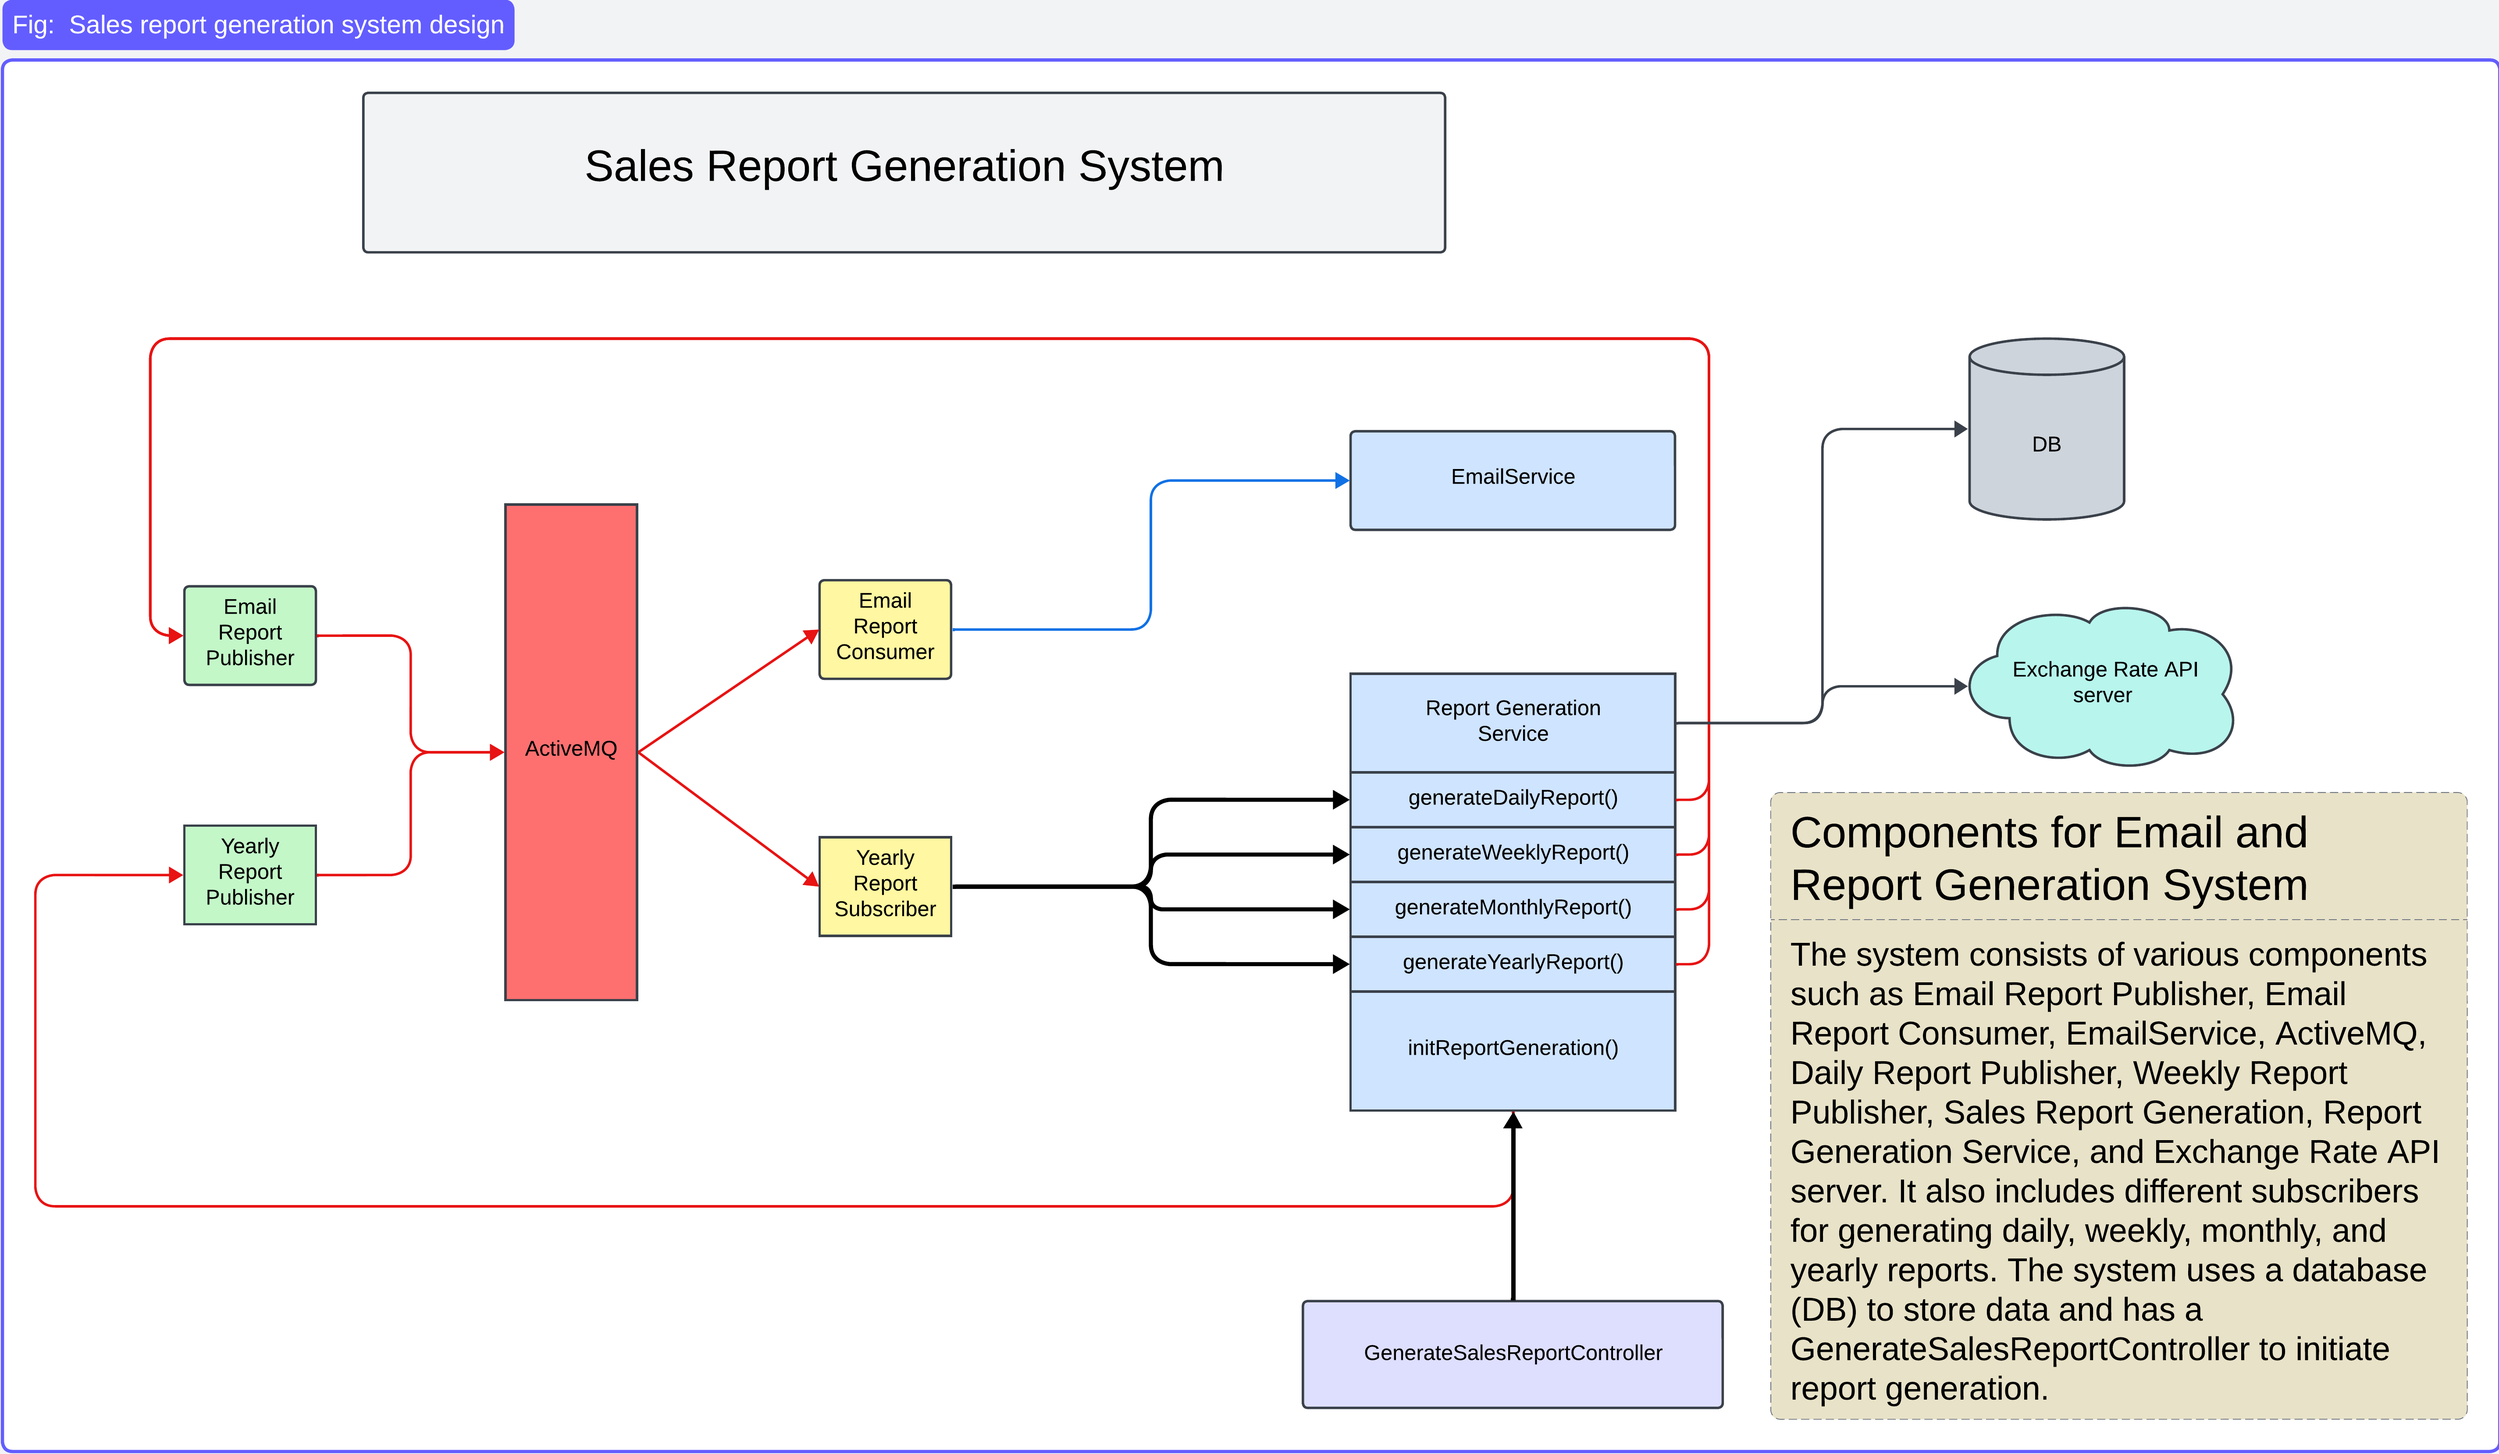
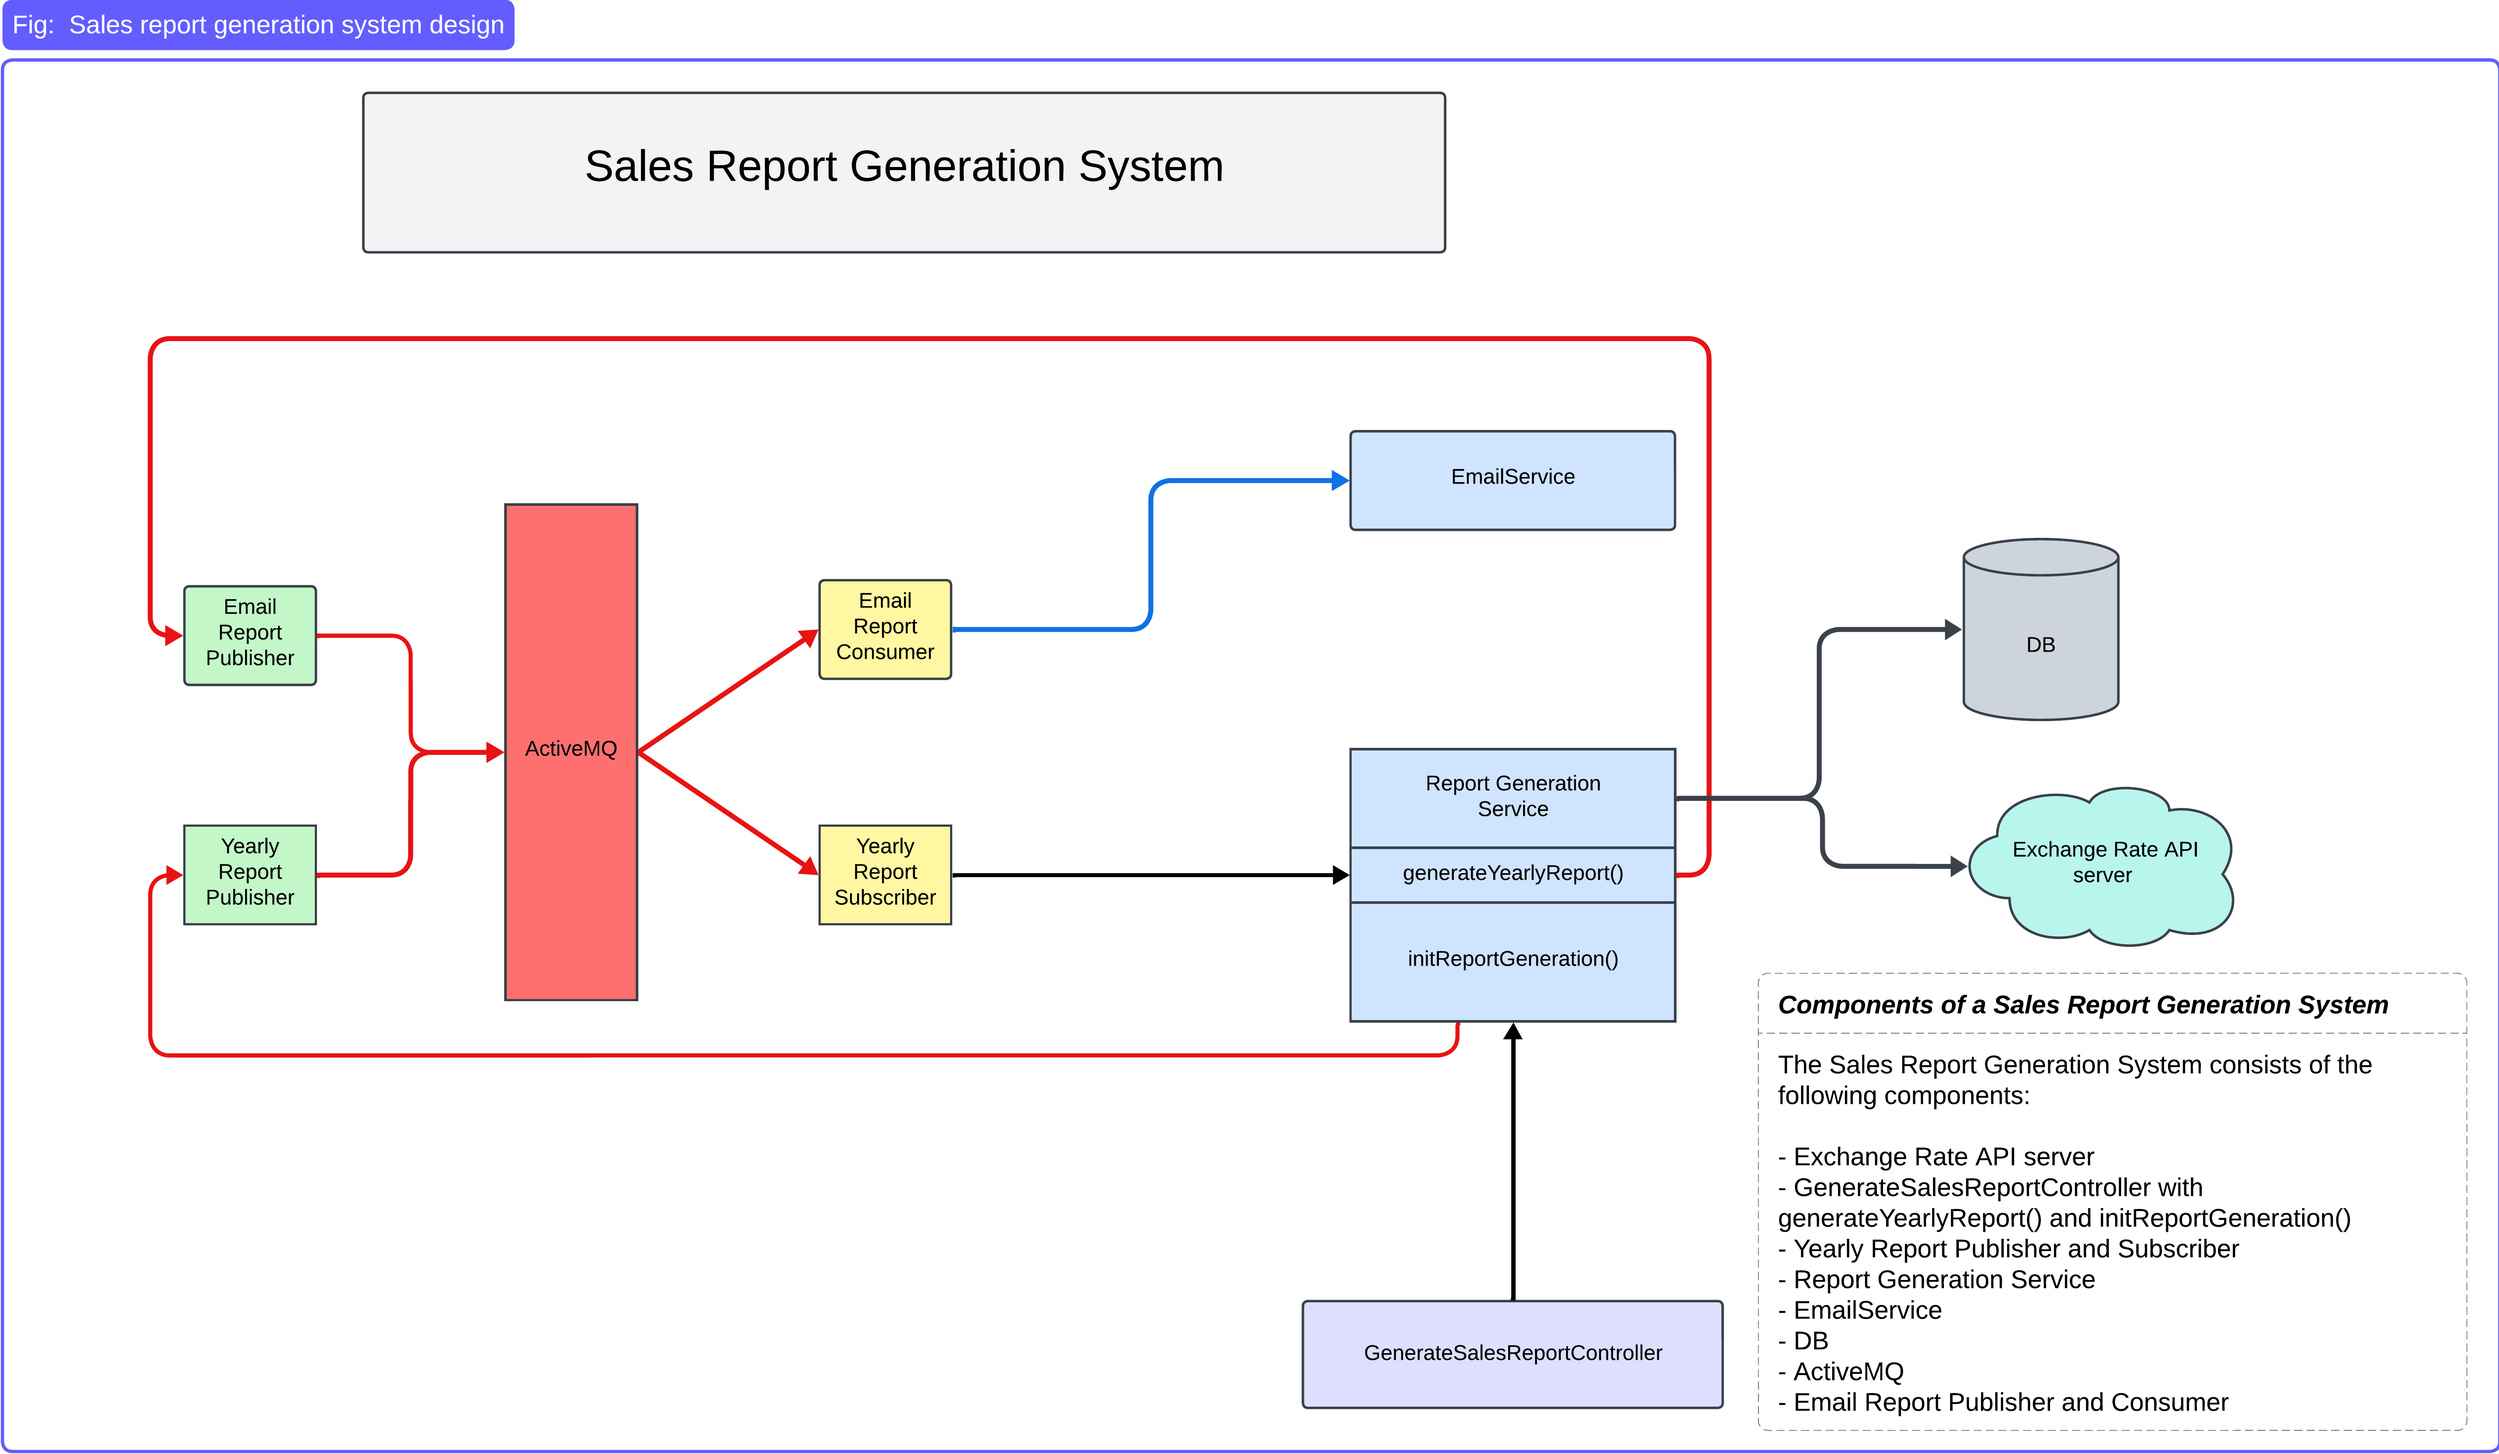
Update report generation and email sending feature

Changed region(s): [[0.4684, 0.2174, 0.9993, 0.9937], [0.2811, 0.5589, 0.4684, 0.6521], [0.7182, 0.4658, 0.7495, 0.4968]]

diff --git a/src/main/resources/templates/pdf/template.html b/src/main/resources/templates/pdf/template.html
@@ -1,0 +1,24 @@
+<!DOCTYPE html>
+<html xmlns:th="http://www.thymeleaf.org" xmlns:layout="http://www.ultraq.net.nz/thymeleaf/layout">
+<head>
+    <meta charset="UTF-8"/>
+    <title>Yearly Report PDF Template</title>
+</head>
+<body>
+<h1>Yearly Report</h1>
+<table>
+    <thead>
+    <tr>
+        <th>Month</th>
+        <th>Sale</th>
+    </tr>
+    </thead>
+    <tbody>
+    <tr th:each="report : ${yearlyReports}">
+        <td th:text="${report.month}"></td>
+        <td th:text="${report.sale}"></td>
+    </tr>
+    </tbody>
+</table>
+</body>
+</html>

diff --git a/src/main/java/com/app/jmspoc/service/business/ReportGenerationService.java b/src/main/java/com/app/jmspoc/service/business/ReportGenerationService.java
@@ -1,16 +1,14 @@
 package com.app.jmspoc.service.business;
 
 import com.app.jmspoc.dto.EmailDto;
+import com.app.jmspoc.dto.YearlyReportDto;
 import com.app.jmspoc.model.Account;
 import com.app.jmspoc.service.activemq.publisher.*;
 import org.slf4j.Logger;
 import org.slf4j.LoggerFactory;
 import org.springframework.stereotype.Service;
-import java.io.ByteArrayOutputStream;
-import java.util.ArrayList;
-import java.util.Calendar;
-import java.util.Date;
-import java.util.List;
+
+import java.util.*;
 
 @Service
 public class ReportGenerationService {
@@ -40,10 +38,10 @@ public class ReportGenerationService {
         yearlyReportGenerationPublisher.publishMessage();
     }
 
-    public void generateYearlyReport() {
+    public void generateAndSendYearlyReport() {
         log.info("yearly report generation");
-        List<String> reportTexts = new ArrayList<>();
-        List<Account> accounts = accountService.findAllAdminAccounts();
+        String reportFileName = "report.pdf";
+        List<YearlyReportDto> yearlyReports = new ArrayList<>();
 
         Calendar startCal = Calendar.getInstance();
         startCal.set(2024, Calendar.JANUARY, 1);
@@ -53,23 +51,28 @@ public class ReportGenerationService {
         for (Date month = startCal.getTime(); startCal.before(endCal); startCal.add(Calendar.MONTH, 1), month = startCal.getTime()) {
             startCal.set(Calendar.DAY_OF_MONTH, 1);
             Date firstDayOfMonth = startCal.getTime();
-
             startCal.set(Calendar.DAY_OF_MONTH, startCal.getActualMaximum(Calendar.DAY_OF_MONTH));
             Date lastDayOfMonth = startCal.getTime();
             Double totalSale = saleService.sumPricesBetweenDates(firstDayOfMonth, lastDayOfMonth);
-            reportTexts.add("date: "+ month +" amount: "+totalSale.toString());
+            YearlyReportDto yearlyReportDto = new YearlyReportDto();
+            yearlyReportDto.setMonth(month.toString());
+            yearlyReportDto.setSale(totalSale.toString());
+            yearlyReports.add(yearlyReportDto);
         }
 
-        ByteArrayOutputStream byteArrayOutputStream = pdfGenerationService.generatePdf(reportTexts);
+        String pdfFilePath = pdfGenerationService.generateAndSavePdf(yearlyReports, reportFileName);
+        sendEmailsToAllAdmin(pdfFilePath);
+    }
+
+    public void sendEmailsToAllAdmin(String pdfFilePath) {
+        List<Account> accounts = accountService.findAllAdminAccounts();
 
         for (Account account: accounts) {
             EmailDto emailDto = new EmailDto();
             emailDto.setMailTo(account.getEmail());
             emailDto.setMailSubject("Daily Sales Report");
-//            emailDto.setContentType("text/plain; charset=\"utf-8\"");
             emailDto.setMailContent("Find attachment below.");
-            emailDto.setFileNames(List.of("daily-report.pdf"));
-            emailDto.setPdfBytes(byteArrayOutputStream);
+            emailDto.setFileNames(List.of(pdfFilePath));
 
             emailReportPublisher.publishMessage(emailDto);
         }

diff --git a/src/main/java/com/app/jmspoc/service/business/PDFGenerationService.java b/src/main/java/com/app/jmspoc/service/business/PDFGenerationService.java
@@ -1,15 +1,16 @@
 package com.app.jmspoc.service.business;
 
-import com.app.jmspoc.service.email.EmailService;
-import com.itextpdf.text.Document;
-import com.itextpdf.text.DocumentException;
-import com.itextpdf.text.Paragraph;
-import com.itextpdf.text.pdf.PdfWriter;
+import com.app.jmspoc.dto.YearlyReportDto;
+import com.lowagie.text.DocumentException;
 import org.slf4j.Logger;
 import org.slf4j.LoggerFactory;
 import org.springframework.stereotype.Service;
+import org.thymeleaf.TemplateEngine;
+import org.thymeleaf.context.Context;
+import org.xhtmlrenderer.pdf.ITextRenderer;
 
-import java.io.ByteArrayOutputStream;
+import java.io.*;
+import java.nio.file.Paths;
 import java.util.List;
 
 @Service
@@ -17,21 +18,35 @@ public class PDFGenerationService {
 
     private static final Logger log = LoggerFactory.getLogger(PDFGenerationService.class);
 
-    public ByteArrayOutputStream generatePdf(List<String> lines) {
-        ByteArrayOutputStream byteArrayOutputStream = new ByteArrayOutputStream();
-        Document document = new Document();
+    private final TemplateEngine templateEngine;
+
+    public PDFGenerationService(TemplateEngine templateEngine) {
+        this.templateEngine = templateEngine;
+    }
+
+    public String generateAndSavePdf(List<YearlyReportDto> yearlyReports, String fileName) {
+        String pdfFilePath = null;
+        String pdfOutputDirectory = "src/main/resources/pdfs";
 
         try {
-            PdfWriter.getInstance(document, byteArrayOutputStream);
-            document.open();
-            for (String line: lines) {
-                document.add(new Paragraph(line));
+            Context context = new Context();
+            context.setVariable("yearlyReports", yearlyReports);
+            String processedHtml = templateEngine.process("pdf/template", context);
+
+            pdfFilePath = Paths.get(pdfOutputDirectory, fileName).toString();
+
+            try (OutputStream outputStream = new FileOutputStream(pdfFilePath)) {
+                ITextRenderer renderer = new ITextRenderer();
+                renderer.setDocumentFromString(processedHtml);
+                renderer.layout();
+                renderer.createPDF(outputStream, false);
+                renderer.finishPDF();
             }
-            document.close();
-        } catch (DocumentException e) {
-            log.error(e.getLocalizedMessage());
+
+        } catch (IOException | DocumentException e) {
+            log.info("Error generating PDF: " + e.getMessage());
         }
 
-        return byteArrayOutputStream;
+        return pdfFilePath;
     }
 }

diff --git a/src/main/java/com/app/jmspoc/service/email/EmailService.java b/src/main/java/com/app/jmspoc/service/email/EmailService.java
@@ -4,7 +4,6 @@ import com.app.jmspoc.dto.EmailDto;
 import jakarta.mail.MessagingException;
 import jakarta.mail.internet.InternetAddress;
 import jakarta.mail.internet.MimeMessage;
-import jakarta.mail.util.ByteArrayDataSource;
 import org.slf4j.Logger;
 import org.slf4j.LoggerFactory;
 import org.springframework.beans.factory.annotation.Value;
@@ -13,10 +12,8 @@ import org.springframework.mail.SimpleMailMessage;
 import org.springframework.mail.javamail.JavaMailSender;
 import org.springframework.mail.javamail.MimeMessageHelper;
 import org.springframework.stereotype.Service;
-
-import java.io.ByteArrayOutputStream;
+import java.io.File;
 import java.io.UnsupportedEncodingException;
-import java.util.List;
 
 @Service
 public class EmailService {
@@ -58,7 +55,8 @@ public class EmailService {
             helper.setSubject(emailDto.getMailSubject());
             helper.setText(emailDto.getMailContent());
             for (String fileName: emailDto.getFileNames()) {
-                helper.addAttachment(fileName, new ByteArrayDataSource(emailDto.getPdfBytes().toByteArray(), "application/pdf"));
+                File file = new File(fileName);
+                helper.addAttachment("report.pdf", file);
             }
             mailSender.send(message);
         } catch (MessagingException e) {

diff --git a/src/main/java/com/app/jmspoc/JmsPOCApplication.java b/src/main/java/com/app/jmspoc/JmsPOCApplication.java
@@ -3,24 +3,27 @@ package com.app.jmspoc;
 import com.app.jmspoc.model.Account;
 import com.app.jmspoc.model.enums.Role;
 import com.app.jmspoc.repository.AccountRepository;
+import com.app.jmspoc.service.business.PDFGenerationService;
 import org.springframework.boot.CommandLineRunner;
 import org.springframework.boot.SpringApplication;
 import org.springframework.boot.autoconfigure.SpringBootApplication;
 import org.springframework.security.crypto.password.PasswordEncoder;
 
-import java.util.ArrayList;
-import java.util.List;
-import java.util.Set;
+import java.util.*;
 
 @SpringBootApplication
 public class JmsPOCApplication implements CommandLineRunner{
 
 	private final AccountRepository accountRepository;
 	private final PasswordEncoder passwordEncoder;
+	private final PDFGenerationService pdfGenerationService;
 
-    public JmsPOCApplication(AccountRepository accountRepository, PasswordEncoder passwordEncoder) {
+    public JmsPOCApplication(AccountRepository accountRepository,
+							 PasswordEncoder passwordEncoder,
+							 PDFGenerationService pdfGenerationService) {
         this.accountRepository = accountRepository;
         this.passwordEncoder = passwordEncoder;
+        this.pdfGenerationService = pdfGenerationService;
     }
 
     public static void main(String[] args) {

diff --git a/src/main/java/com/app/jmspoc/dto/EmailDto.java b/src/main/java/com/app/jmspoc/dto/EmailDto.java
@@ -25,8 +25,6 @@ public class EmailDto implements Serializable {
 
     private List<String> fileNames;
 
-    private ByteArrayOutputStream pdfBytes;
-
     public String getMailFrom() {
         return mailFrom;
     }
@@ -105,13 +103,5 @@ public class EmailDto implements Serializable {
 
     public void setFileNames(List<String> fileNames) {
         this.fileNames = fileNames;
-    }
-
-    public ByteArrayOutputStream getPdfBytes() {
-        return pdfBytes;
-    }
-
-    public void setPdfBytes(ByteArrayOutputStream pdfBytes) {
-        this.pdfBytes = pdfBytes;
     }
 }

diff --git a/src/main/java/com/app/jmspoc/dto/YearlyReportDto.java b/src/main/java/com/app/jmspoc/dto/YearlyReportDto.java
@@ -1,0 +1,22 @@
+package com.app.jmspoc.dto;
+
+public class YearlyReportDto {
+    private String month;
+    private String sale;
+
+    public String getMonth() {
+        return month;
+    }
+
+    public void setMonth(String month) {
+        this.month = month;
+    }
+
+    public String getSale() {
+        return sale;
+    }
+
+    public void setSale(String sale) {
+        this.sale = sale;
+    }
+}

diff --git a/src/main/java/com/app/jmspoc/service/activemq/subscriber/YearlySalesReportGenerationSubscriber.java b/src/main/java/com/app/jmspoc/service/activemq/subscriber/YearlySalesReportGenerationSubscriber.java
@@ -19,6 +19,6 @@ public class YearlySalesReportGenerationSubscriber {
     @JmsListener(destination = "${jmspoc.queue.yearly-sales-report-generation}")
     public void subscribeMessage() {
         log.info("YearlySalesReportGenerationSubscriber received");
-        reportGenerationService.generateYearlyReport();
+        reportGenerationService.generateAndSendYearlyReport();
     }
 }
